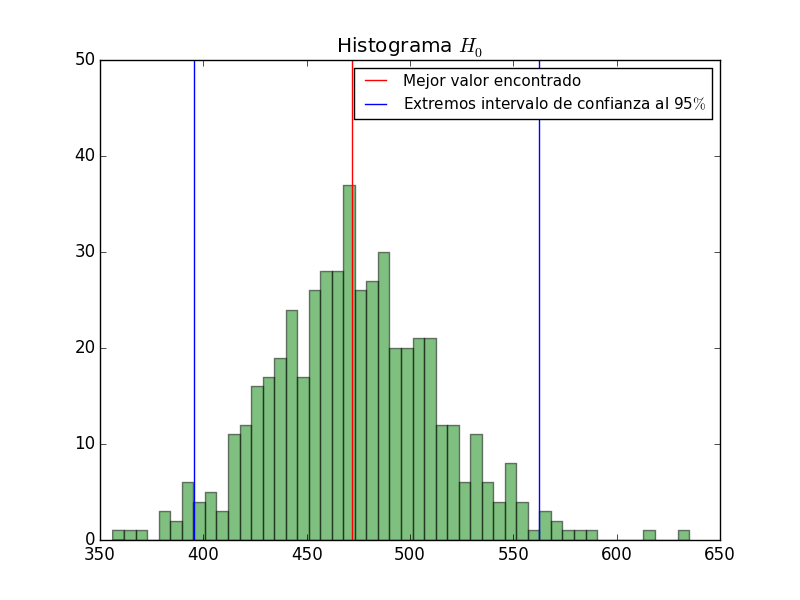
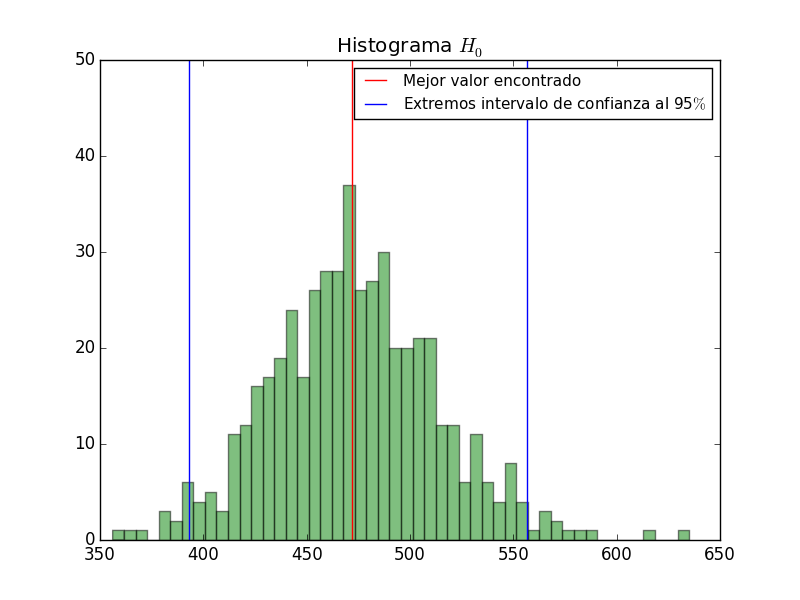
se arregla multiplicacion *0.03 a *0.025 y se cambia 0.97 por 0.975 para calcular intervalos de confianza

Changed region(s): [[0.2188, 0.09, 0.25, 0.9], [0.6562, 0.21, 0.6875, 0.9]]

diff --git a/p3.py b/p3.py
@@ -29,10 +29,10 @@ a, b = np.polyfit(flujo_i, flujo_z, 1)
 # calculando intervalo de confianza
 pendientes_ord = np.sort(pendientes)
 coefs_posicion_ord = np.sort(coefs_posicion)
-limite_bajo_1 = pendientes_ord[int(Nmc * 0.03)]
-limite_alto_1 = pendientes_ord[int(Nmc * 0.98)]
-limite_bajo_2 = coefs_posicion_ord[int(Nmc * 0.03)]
-limite_alto_2 = coefs_posicion_ord[int(Nmc * 0.98)]
+limite_bajo_1 = pendientes_ord[int(Nmc * 0.025)]
+limite_alto_1 = pendientes_ord[int(Nmc * 0.975)]
+limite_bajo_2 = coefs_posicion_ord[int(Nmc * 0.025)]
+limite_alto_2 = coefs_posicion_ord[int(Nmc * 0.975)]
 print """El intervalo de confianza al
       95% para la pendiente es: [{}:{}]""".format(limite_bajo_1,
                                                   limite_alto_1)

diff --git a/p1.py b/p1.py
@@ -53,8 +53,8 @@ for i in range(Nboot):
     values_promedio[i] = (values_1[i] + values_2[i]) * 0.5
 
 values_ord = np.sort(values_promedio)
-limite_bajo = values_ord[int(Nboot * 0.03)]
-limite_alto = values_ord[int(Nboot * 0.98)]
+limite_bajo = values_ord[int(Nboot * 0.025)]
+limite_alto = values_ord[int(Nboot * 0.975)]
 print "El intervalo de confianza al 95% es: [{}:{}]".format(limite_bajo,
                                                             limite_alto)
 

diff --git a/p2.py b/p2.py
@@ -51,8 +51,8 @@ for i in range(Nboot):
     values_promedio[i] = (values_1[i] + values_2[i]) * 0.5
 
 values_ord = np.sort(values_promedio)
-limite_bajo = values_ord[int(Nboot * 0.03)]
-limite_alto = values_ord[int(Nboot * 0.98)]
+limite_bajo = values_ord[int(Nboot * 0.025)]
+limite_alto = values_ord[int(Nboot * 0.975)]
 print "El intervalo de confianza al 95% es: [{}:{}]".format(limite_bajo,
                                                             limite_alto)
 
